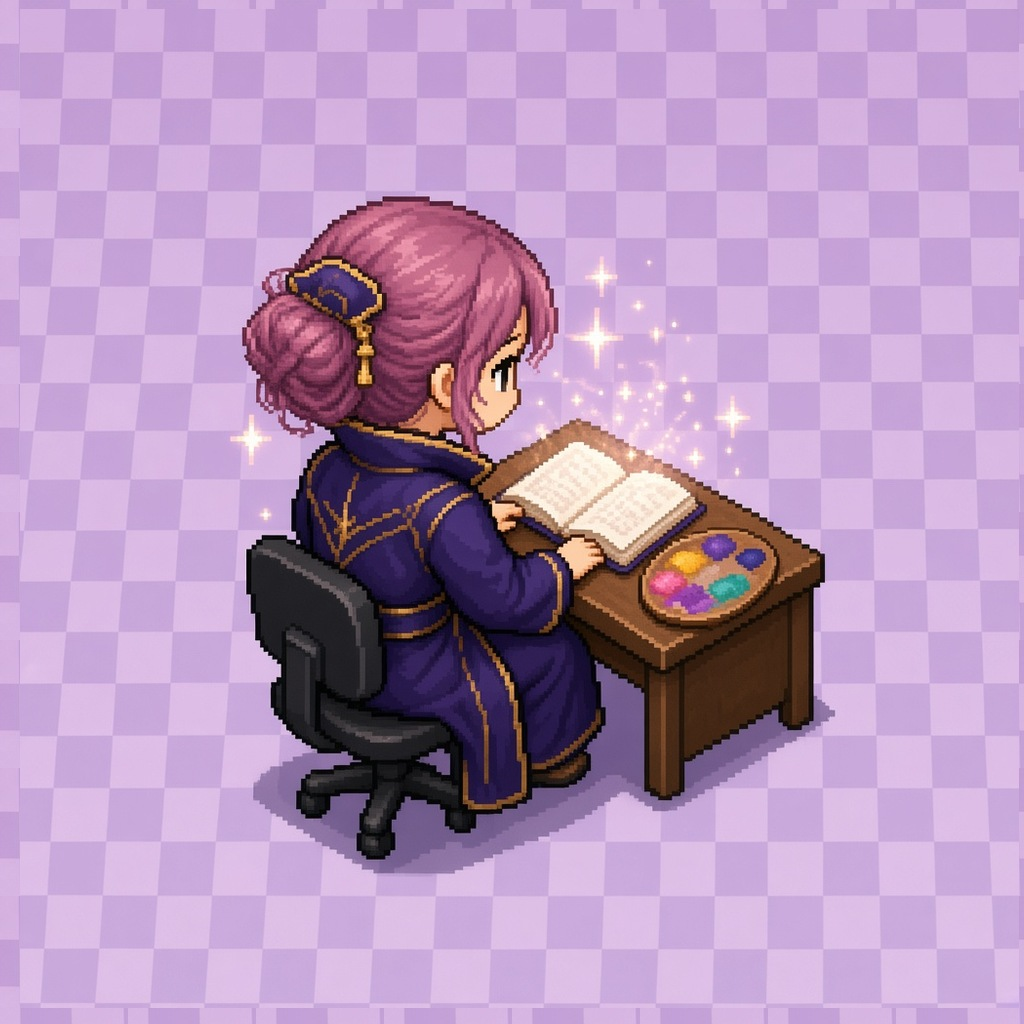
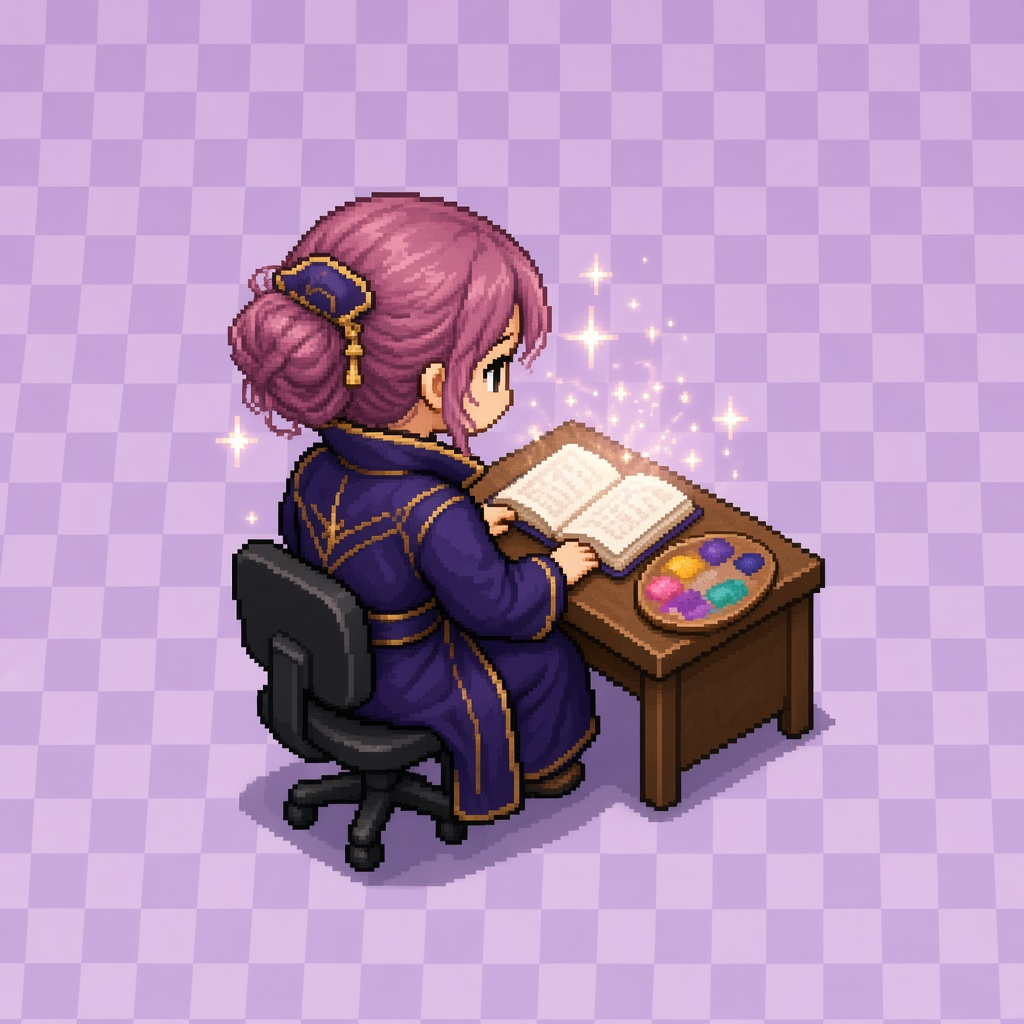
pixel map: restore Habbo layout before fullroom enlarge
Look：上一個版本幾好；還原 4728efb 地圖＋sprite（唔用 fullroom 放大）。

diff --git a/ai-office-pixel-map.html b/ai-office-pixel-map.html
@@ -89,11 +89,11 @@
     }
     .door {
       position: absolute;
-      top: 2px;
+      top: 4px;
       left: 50%;
       transform: translateX(-50%);
-      width: 52px;
-      height: 26px;
+      width: 44px;
+      height: 24px;
       z-index: 6;
       display: flex;
       gap: 2px;
@@ -123,8 +123,8 @@
       border-radius: 1px;
       z-index: 7;
     }
-    .door-knob-l { left: 20px; }
-    .door-knob-r { right: 20px; }
+    .door-knob-l { left: 16px; }
+    .door-knob-r { right: 16px; }
     .room-name {
       position: absolute;
       top: 34px;
@@ -159,26 +159,50 @@
     .status.hold { background: #fb923c; color: #7c2d12; }
     .status.error { background: #f87171; color: #7f1d1d; }
     .status.idle { background: #94a3b8; color: #0f172a; }
-    .floor-art {
+    .desk-zone {
       position: absolute;
-      inset: 28px 0 0 0;
-      width: 100%;
-      height: calc(100% - 28px);
-      object-fit: cover;
-      object-position: left bottom;
-      z-index: 1;
-      display: block;
+      left: 4px;
+      bottom: 4px;
+      width: 118px;
+      z-index: 2;
+      display: flex;
+      flex-direction: column;
+      align-items: center;
       pointer-events: none;
+    }
+    .sprite {
+      width: 112px;
+      max-width: 100%;
+      height: auto;
+      border: none;
+      border-radius: 0;
+      background: transparent;
+      box-shadow: none;
       image-rendering: auto;
+      display: block;
+      filter: drop-shadow(1px 2px 0 rgba(0,0,0,.15));
+    }
+    .sprite-tag {
+      margin-top: -2px;
+      font-size: 0.58rem;
+      font-weight: 700;
+      color: #0f172a;
+      background: rgba(255,255,255,.78);
+      padding: 1px 5px;
+      border-radius: 3px;
+      max-width: 110px;
+      overflow: hidden;
+      text-overflow: ellipsis;
+      white-space: nowrap;
     }
     .progress {
       position: absolute;
       top: 58px;
+      left: 126px;
       right: 8px;
-      left: 42%;
-      bottom: 10px;
-      z-index: 3;
-      background: rgba(15,23,42,.52);
+      bottom: 8px;
+      z-index: 2;
+      background: rgba(15,23,42,.48);
       color: #f1f5f9;
       font-size: 0.7rem;
       line-height: 1.4;
@@ -216,17 +240,19 @@
     }
     @media (max-width: 1100px) {
       .campus { grid-template-columns: repeat(3, 1fr); }
-      .room { min-height: 300px; }
+      .room { min-height: 290px; }
     }
     @media (max-width: 720px) {
       .campus { grid-template-columns: 1fr 1fr; }
-      .room { min-height: 290px; }
-      .progress { left: 36%; font-size: 0.66rem; }
+      .room { min-height: 280px; }
+      .desk-zone { width: 100px; }
+      .sprite { width: 96px; }
+      .progress { left: 108px; font-size: 0.66rem; }
     }
     @media (max-width: 480px) {
       .campus { grid-template-columns: 1fr; }
-      .room { min-height: 280px; }
-      .progress { left: 32%; }
+      .room { min-height: 260px; }
+      .progress { left: 116px; }
     }
   </style>
 </head>
@@ -311,9 +337,12 @@
             <span class="door-knob-l"></span>
             <span class="door-knob-r"></span>
           </div>
-          <img class="floor-art" src="pixel-assets/${b.sprite}?v=fullroom1" alt="${b.name}" />
           <div class="room-name">${b.wingLabel} · ${b.name}</div>
           <span class="status idle" data-status>暫無</span>
+          <div class="desk-zone">
+            <img class="sprite" src="pixel-assets/${b.sprite}?v=restore4728" alt="${b.name}" />
+            <span class="sprite-tag">${b.name}</span>
+          </div>
           <div class="progress" data-tasks>
             <div class="prog-head">最新進度</div>
             載入任務…
